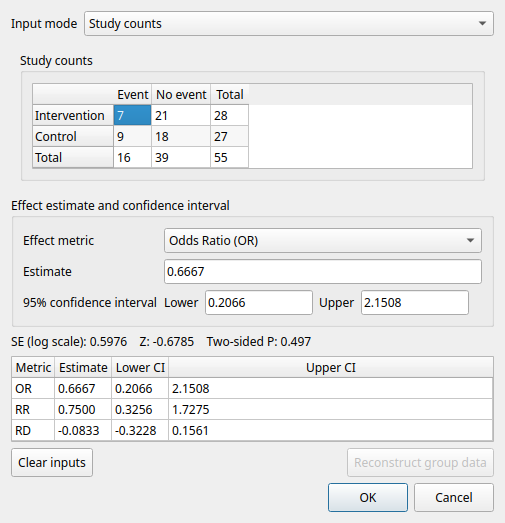
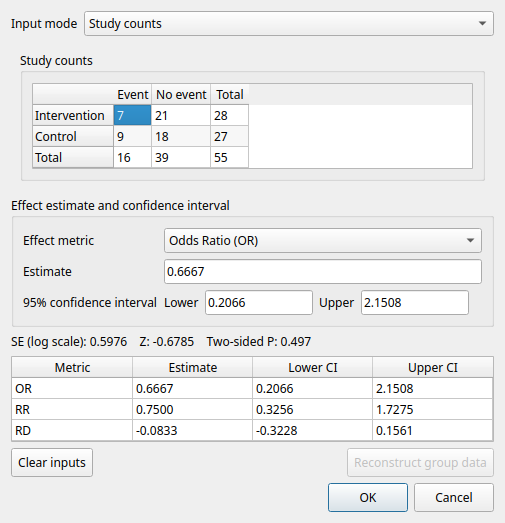
Correct study grid captures and evenly size calculator metrics

Changed region(s): [[0.0297, 0.673, 0.4158, 0.8566], [0.505, 0.673, 0.7129, 0.8566], [0.7426, 0.673, 0.8911, 0.8566]]

diff --git a/tests/e2e/desktop_driver.py b/tests/e2e/desktop_driver.py
@@ -366,6 +366,22 @@ def analysis_dialog(app, window):
         view.close()
 
 
+def assert_study_grid(app, window):
+    table = window.tableView
+    model = window.model
+    app.processEvents()
+    assert model.headerData(0, QtCore.Qt.Orientation.Horizontal) == "Include"
+    assert model.headerData(model.NAME, QtCore.Qt.Orientation.Horizontal) == "Study Name"
+    index = model.index(0, model.NAME)
+    assert index.data() == model.get_studies(False)[0].label
+    rect = table.visualRect(index).adjusted(4, 4, -4, -4)
+    assert table.viewport().rect().contains(rect), (rect, table.horizontalScrollBar().value())
+    rendered = table.viewport().grab(rect).toImage()
+    colors = {rendered.pixel(x, y) for x in range(rendered.width()) for y in range(rendered.height())}
+    assert len(colors) > 2, "Study name cell has no rendered text"
+    record_step("study-grid-visible", window, label=index.data(), pixel_colors=len(colors))
+
+
 def sample_analysis(app, window, sample):
     assert window.open(
         str(ROOT / f"sample_projects/{sample}.rcms"), raise_on_error=True
@@ -378,6 +394,7 @@ def sample_analysis(app, window, sample):
     assert (
         str(window.model.data(window.model.index(0, window.model.NAME))) == first_study
     )
+    assert_study_grid(app, window)
     assert sum(study.include for study in window.model.get_studies(False)) == study_count
     method, case = {
         "amino": ("binary.random", "amino-binary-random"),
@@ -653,6 +670,7 @@ def sheets(app, window):
     def project(dataset):
         return dataset_to_project(dataset)
     assert window.open(str(ROOT / "sample_projects/amino.rcms"), raise_on_error=True)
+    assert_study_grid(app, window)
     tabs = window.sheet_tabs
     original = copy.deepcopy(window.model.dataset)
     window.resize(1600, 828)
@@ -866,8 +884,12 @@ def xlsx_import(app, window):
             capture.restart()
             app.processEvents()
             capture.grab().save(str(screens / f"slice8a-{page_name}-{theme}.png"))
-        window.tableView.horizontalScrollBar().setValue(window.tableView.horizontalScrollBar().maximum())
+        window.resize(1200, 828)
+        window.tableView.horizontalScrollBar().setValue(0)
+        window.tableView.viewport().repaint()
+        window.tableView.horizontalHeader().viewport().repaint()
         app.processEvents()
+        assert_study_grid(app, window)
         window.grab().save(str(screens / f"slice8a-grid-{theme}.png"))
         for index, button in enumerate(buttons):
             types._button_selected(button)
@@ -1293,6 +1315,9 @@ def calculator(app, window, family):
         try:
             table = getattr(dialog, table_name)
             app.processEvents()
+            if family == "binary":
+                widths = [dialog.metric_readout.columnWidth(i) for i in range(4)]
+                assert max(widths) - min(widths) <= 1, widths
             dialog.grab().save(str(ROOT / f"docs/ux-hill-climb/screens/slice8a-calculator-{family}.png"))
             for field in (dialog.effect_text_box, dialog.lower_text_box, dialog.upper_text_box):
                 width = field.fontMetrics().horizontalAdvance(field.text())

diff --git a/src/rc_metastudio/calculator_routines.py b/src/rc_metastudio/calculator_routines.py
@@ -12,7 +12,7 @@ from PyQt6.QtCore import Qt
 from PyQt6.QtGui import QPainter
 
 from PyQt6.QtWidgets import (
-    QAbstractItemView, QLabel, QLineEdit, QMessageBox, QSizePolicy, QStyle, QStyleOptionFrame,
+    QAbstractItemView, QHeaderView, QLabel, QLineEdit, QMessageBox, QSizePolicy, QStyle, QStyleOptionFrame,
     QStyledItemDelegate, QTableWidget, QTableWidgetItem, QWIDGETSIZE_MAX,
 )
 
@@ -551,7 +551,7 @@ def update_calculator_readout(dialog, data_type):
             table.verticalHeader().hide()
             table.setEditTriggers(QAbstractItemView.EditTrigger.NoEditTriggers)
             table.setSelectionBehavior(QAbstractItemView.SelectionBehavior.SelectRows)
-            table.horizontalHeader().setStretchLastSection(True)
+            table.horizontalHeader().setSectionResizeMode(QHeaderView.ResizeMode.Stretch)
             dialog.dialog_layout.insertWidget(dialog.dialog_layout.count() - 2, table)
             def select_metric(row, column):
                 index = dialog.effect_combo_box.findData(("OR", "RR", "RD")[row])

diff --git a/docs/ux-hill-climb/SLICE8A.md b/docs/ux-hill-climb/SLICE8A.md
@@ -119,3 +119,40 @@ All nine requested serial scenarios passed on the final rerun. Commands used `so
 Final uninterrupted command: `uv run --no-sync python -m pytest tests/e2e -n 2 -q -k "calculator or wizard or import or csv or ux or audit or review"`. Result: **51 passed in 1630.99s (27m10s), exit 0**. Transcript: [SLICE8A-pytest.txt](SLICE8A-pytest.txt). Each test retains its own evidence manifest under artifacts/verification/rcms. Earlier interrupted and failed evidence remains intact.
 
 Screens refreshed: import, metric, binary/continuous/diagnostic calculators, light/dark effect grid, and light/dark welcome/data-type/outcome/CSV pages. Scope: Qt offscreen, not native display qualification. Existing baseline accepted-row fixtures and numerical assertions passed unchanged. No numerical algorithms changed. All four numbered steps are complete.
+
+## Grid capture correction
+
+The blank Include/Study Name columns were a capture artifact introduced by
+`f221b3d32ef45f6c5c6c06857810af846f300577` (forced rightmost horizontal scroll),
+not the neutral-tint model change. Reproduced with HEAD's real Qt/R capture in
+both palettes. The new visibility assertion failed at that capture state:
+row 1's name rectangle started at x=-73, outside the viewport. Capture now uses
+a 1200-pixel window, leftmost scroll and explicit viewport/header repaint.
+Both refreshed palette images show Include, Study Name and Gonzalez correctly.
+The sheets/amino drives check the headers, model study label and nonuniform
+interior pixels of the first study-name cell; the palette capture checks both.
+
+The calculator width assertion first failed with widths [43, 57, 57, 324].
+All four binary metric columns now share the viewport using Qt Stretch sections.
+No numerical computation or stored precision changed.
+
+Verification evidence (`artifacts/verification/rcms/`, retained manifests include
+commands, runtime, assertions and screenshots):
+
+- Original capture reproduction: `20261101T005620Z-ecd4c766-xlsx-import`.
+- Capture visibility failure: `20261101T005633Z-f5eac31e-xlsx-import`.
+- Calculator width failure: `20261101T005652Z-ce75a211-calculator-binary`.
+- Corrected light/dark capture: `20261101T005703Z-40de6e47-xlsx-import`.
+- Requested ordered drives: `20261101T005726Z-1d255bb5-sheets`,
+  `20261101T005744Z-241d10ed-amino`,
+  `20261101T005802Z-9d7d3c7f-calculator-binary`,
+  `20261101T005817Z-a9522284-hillclimb` (all passed).
+
+Commands use `source build/sheets-baseline/ENV.sh`, then
+`uv run --no-sync python scripts/verify_rcms.py SCENARIO`.
+This is real Qt offscreen/R evidence, not native window-manager qualification.
+
+The uninterrupted sheets → amino → calculator-binary → hillclimb sequence and
+`uv run --no-sync python -m pytest tests/e2e -n 2 -q -k "sheets or grid or editing or calculator"`
+passed: **24 tests in 373.23 seconds**. Selection evidence index:
+`artifacts/verification/rcms/slice8a-grid-correction-pytest.json`.

diff --git a/.agents/skills/verify-rcms/features/projects.md b/.agents/skills/verify-rcms/features/projects.md
@@ -157,3 +157,8 @@ Slice 8A: effect cells use a translucent neutral tint, normal font and inherited
 theme text. The xlsx-import drive captures the amino effect grid with light and
 dark palettes; review1-design checks composited text contrast and exercises the
 start-page import action with a controlled file-picker result.
+
+- **Study identity rendering.** `sheets` and `amino` assert Include/Study Name
+  header text, first-row label equality with the study model, a fully visible
+  name-cell rectangle and nonuniform interior viewport pixels. `xlsx-import`
+  repeats this rendering proof in light/dark palettes before grid capture.

diff --git a/.agents/skills/verify-rcms/features/calculators.md b/.agents/skills/verify-rcms/features/calculators.md
@@ -116,3 +116,6 @@ full item/editor text. Diagnostic prevalence uses a rounded unfocused readout an
 round-trip-safe text. Binary OR/RR/RD readouts fit their three rows and columns.
 The baseline acceptance fixtures and independent numerical comparisons remain
 unchanged. Refreshed offscreen screenshots are in docs/ux-hill-climb/screens/slice8a-*.
+
+- `calculator-binary` also checks that the OR/RR/RD readout's four visible
+  columns share width evenly (at most one pixel difference).
